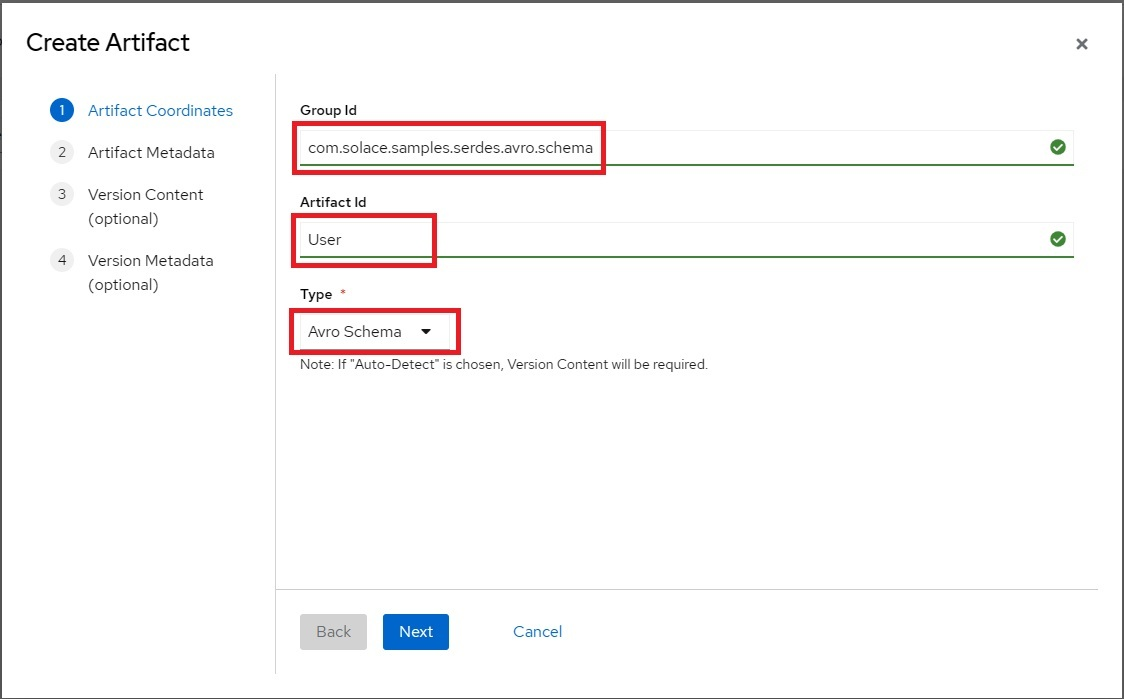
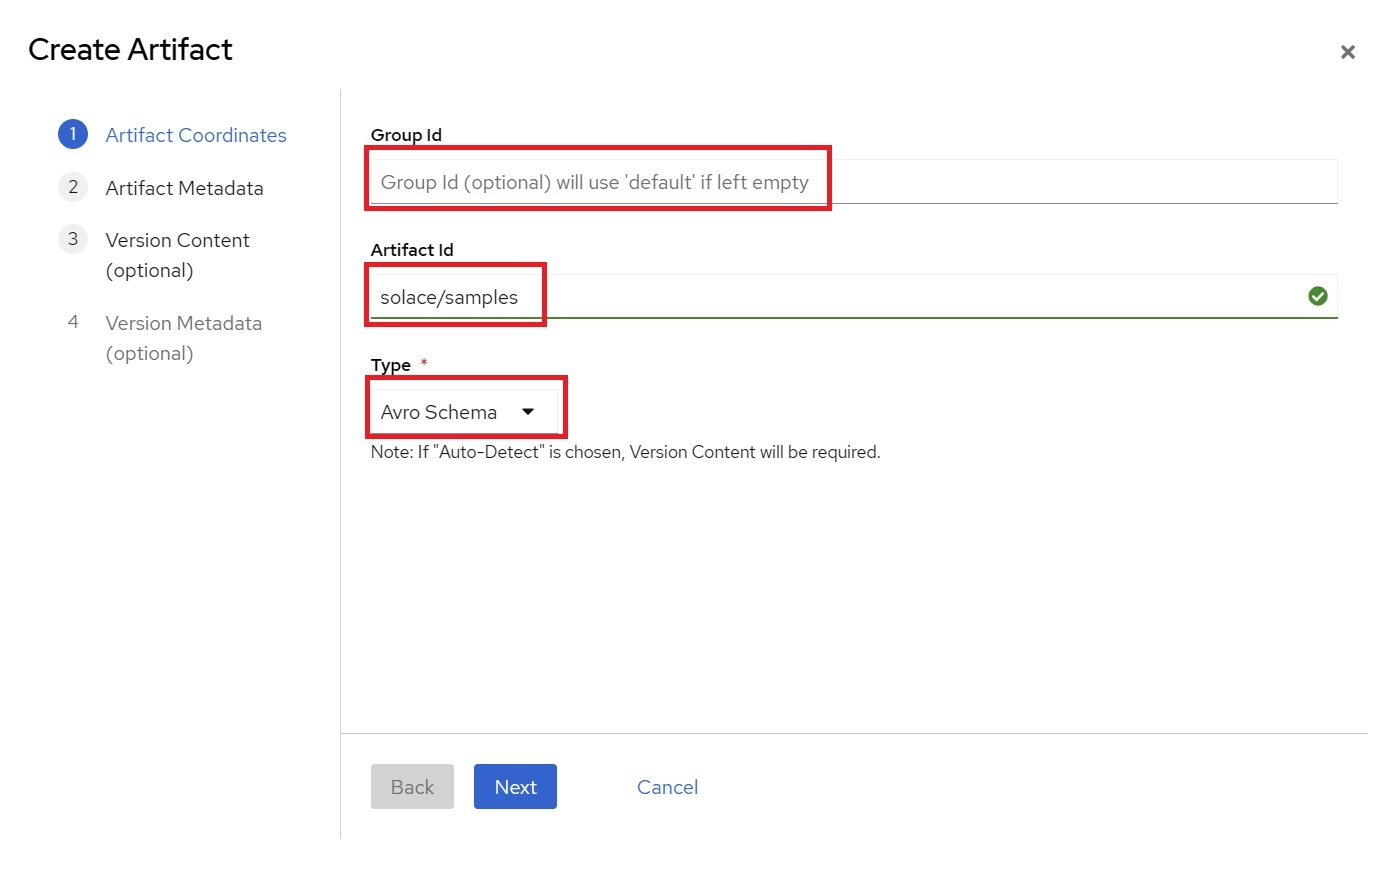
next Schema Registry Beta

diff --git a/markdown/schema-registry-beta/schema-registry-beta.md b/markdown/schema-registry-beta/schema-registry-beta.md
@@ -125,8 +125,8 @@ Let's create a simple schema for a ```User``` event:
 </p>
 
 3. Click on ```Create artifact``` button. Once the dialogue opens enter the following as shown below:
-    * Group Id: Set to ```com.solace.samples.serdes.avro.schema```
-    * Artifact Id: Set to ```User```
+    * Group Id: Leave it empty (default)
+    * Artifact Id: Set to ```solace/samples```
     * Type: Set to ```Avro Schema```   
 
 <p align="center">
